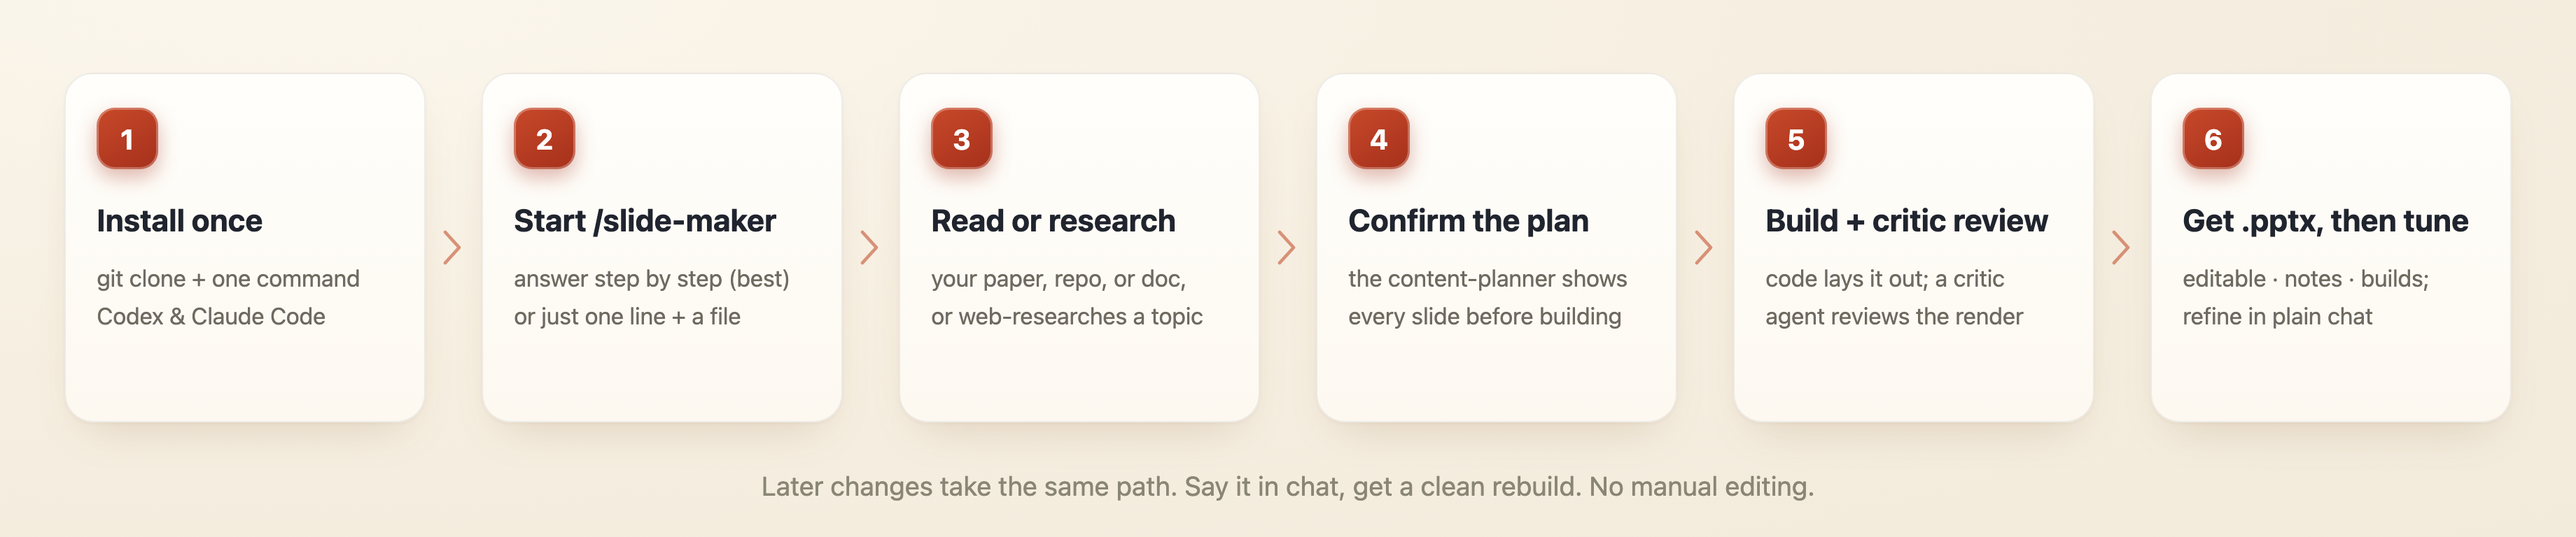
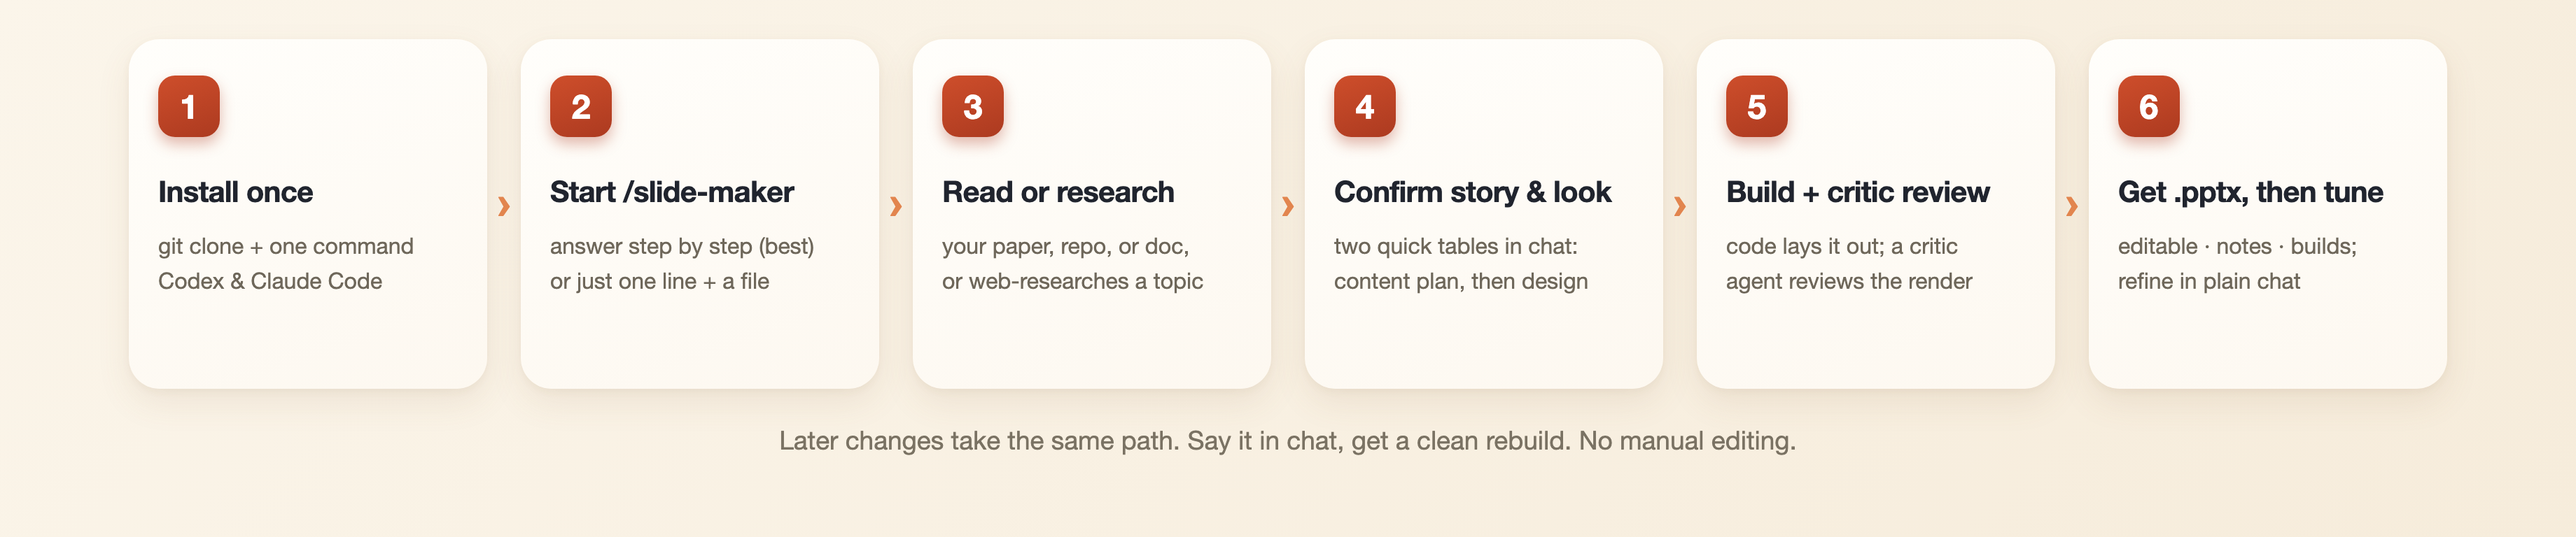
Update quickstart diagrams: two confirmations (story, then look)
Step 4 showed a single 'confirm the plan' with only the content-planner;
the pipeline now has two in-chat checkpoints (content plan, then design
plan by the art director). Regenerated programmatically (HTML + headless
Chrome, same 3680x768 design) - generator committed at
docs/assets/quickstart_src/make.py so the next pipeline change is a
one-command regen.

diff --git a/docs/assets/quickstart_src/make.py b/docs/assets/quickstart_src/make.py
@@ -1,0 +1,59 @@
+import subprocess, os
+SP = os.path.dirname(os.path.abspath(__file__))
+
+CARDS = {
+"en": dict(
+  steps=[("1","Install once","git clone + one command<br>Codex &amp; Claude Code"),
+         ("2","Start /slide-maker","answer step by step (best)<br>or just one line + a file"),
+         ("3","Read or research","your paper, repo, or doc,<br>or web-researches a topic"),
+         ("4","Confirm story &amp; look","two quick tables in chat:<br>content plan, then design"),
+         ("5","Build + critic review","code lays it out; a critic<br>agent reviews the render"),
+         ("6","Get .pptx, then tune","editable · notes · builds;<br>refine in plain chat")],
+  footer="Later changes take the same path. Say it in chat, get a clean rebuild. No manual editing.",
+  font="-apple-system, 'SF Pro Display', 'Helvetica Neue', Arial, sans-serif"),
+"zh": dict(
+  steps=[("1","装一次","git clone + 一条命令<br>Codex 与 Claude Code"),
+         ("2","敲 /slide-maker","逐题回答最稳（推荐）<br>或一句话带上文件"),
+         ("3","读材料或联网调研","读你的论文、代码、文档<br>没有材料就先联网调研"),
+         ("4","确认故事和观感","对话里两张小表：<br>先结构稿，后设计方案"),
+         ("5","生成 + 独立评审","代码排版，评审 agent<br>复查渲染图并修正"),
+         ("6","拿到 pptx，再微调","可编辑 · 备注 · 点击渐显<br>用自然语言继续改")],
+  footer="后续修改也走同一条路：对话里说一句，干净重出一版，不用手工编辑。",
+  font="-apple-system, 'PingFang SC', 'Hiragino Sans GB', sans-serif"),
+}
+
+TPL = """<!DOCTYPE html><html><head><meta charset="utf-8"><style>
+* {{ margin:0; padding:0; box-sizing:border-box; }}
+body {{ width:1840px; height:384px; font-family:{font};
+  background:linear-gradient(135deg,#FBF5EA 0%,#F6ECDB 100%); overflow:hidden; }}
+.row {{ display:flex; align-items:center; justify-content:center; gap:0; padding-top:28px; }}
+.card {{ width:256px; height:250px; background:linear-gradient(160deg,#FFFEFB 0%,#FDF8F0 100%);
+  border-radius:22px; box-shadow:0 10px 24px rgba(140,100,60,.10), 0 2px 6px rgba(140,100,60,.06);
+  padding:26px 21px; flex:none; }}
+.badge {{ width:44px; height:44px; border-radius:12px; background:linear-gradient(160deg,#CE4E2B,#AC3A20);
+  color:#fff; font-size:24px; font-weight:700; display:flex; align-items:center; justify-content:center;
+  box-shadow:0 5px 10px rgba(172,58,32,.35); margin-bottom:26px; }}
+.t {{ font-size:21px; font-weight:700; color:#20242E; margin-bottom:14px; letter-spacing:-0.4px; white-space:nowrap; }}
+.b {{ font-size:16px; line-height:1.55; color:#6E675A; }}
+.chev {{ color:#E2854E; font-size:30px; font-weight:600; padding:0 7px; flex:none;
+  transform:translateY(-8px); font-family:Arial; }}
+.footer {{ text-align:center; font-size:18.5px; color:#7A7263; margin-top:26px; }}
+</style></head><body>
+<div class="row">{cards}</div>
+<div class="footer">{footer}</div>
+</body></html>"""
+
+CARD = '<div class="card"><div class="badge">{n}</div><div class="t">{t}</div><div class="b">{b}</div></div>'
+CHEV = '<div class="chev">&#8250;</div>'
+
+chrome = "/Applications/Google Chrome.app/Contents/MacOS/Google Chrome"
+for lang, d in CARDS.items():
+    cards = CHEV.join(CARD.format(n=n, t=t, b=b) for n, t, b in d["steps"])
+    html = TPL.format(font=d["font"], cards=cards, footer=d["footer"])
+    fp = f"{SP}/qs_{lang}.html"
+    open(fp, "w").write(html)
+    out = f"{SP}/quickstart_{lang}.png"
+    subprocess.run([chrome, "--headless", "--disable-gpu", f"--screenshot={out}",
+                    "--window-size=1840,384", "--force-device-scale-factor=2",
+                    "--hide-scrollbars", f"file://{fp}"], capture_output=True, timeout=60)
+    print(out, os.path.getsize(out) if os.path.exists(out) else "FAIL")
